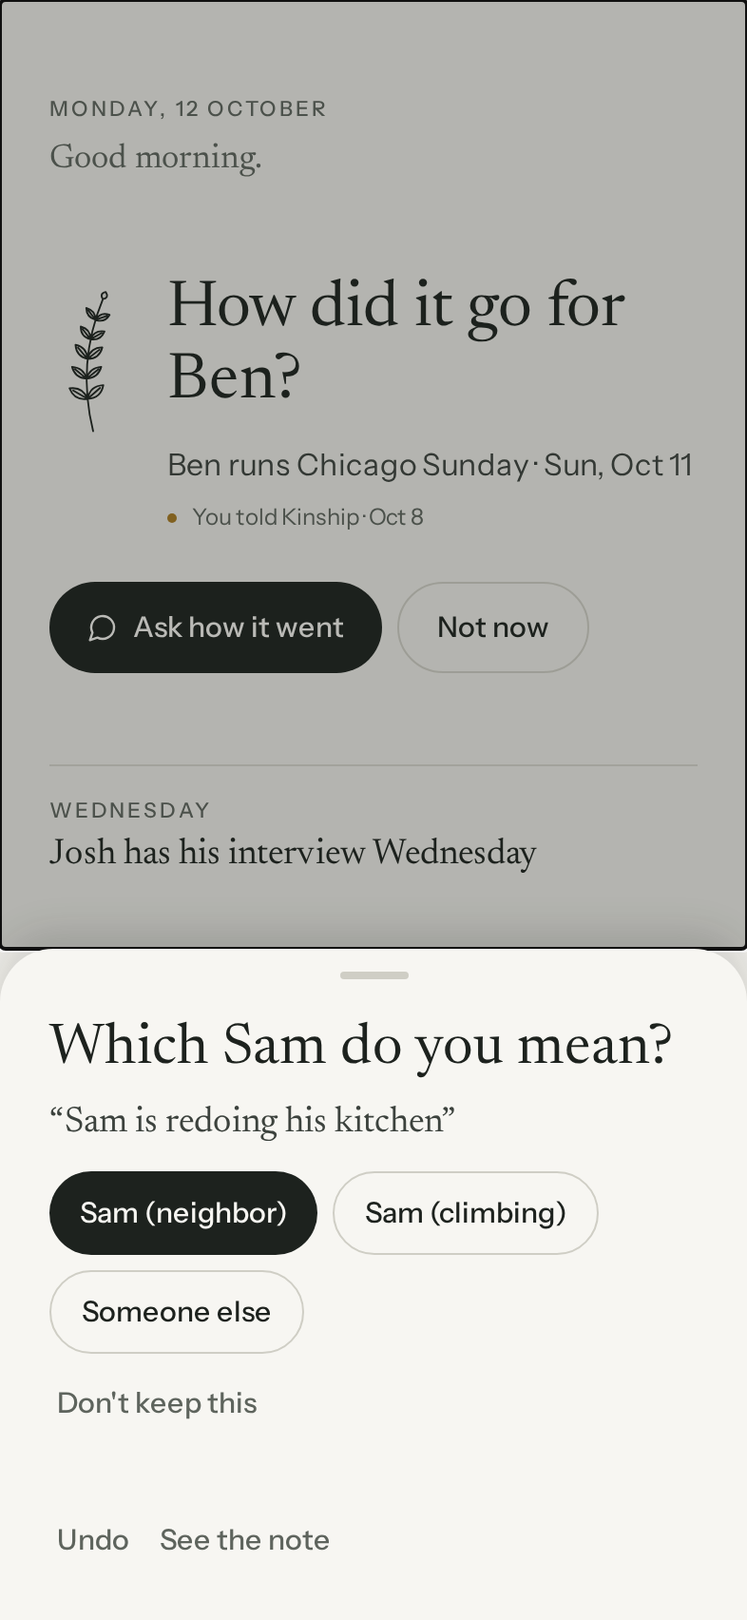
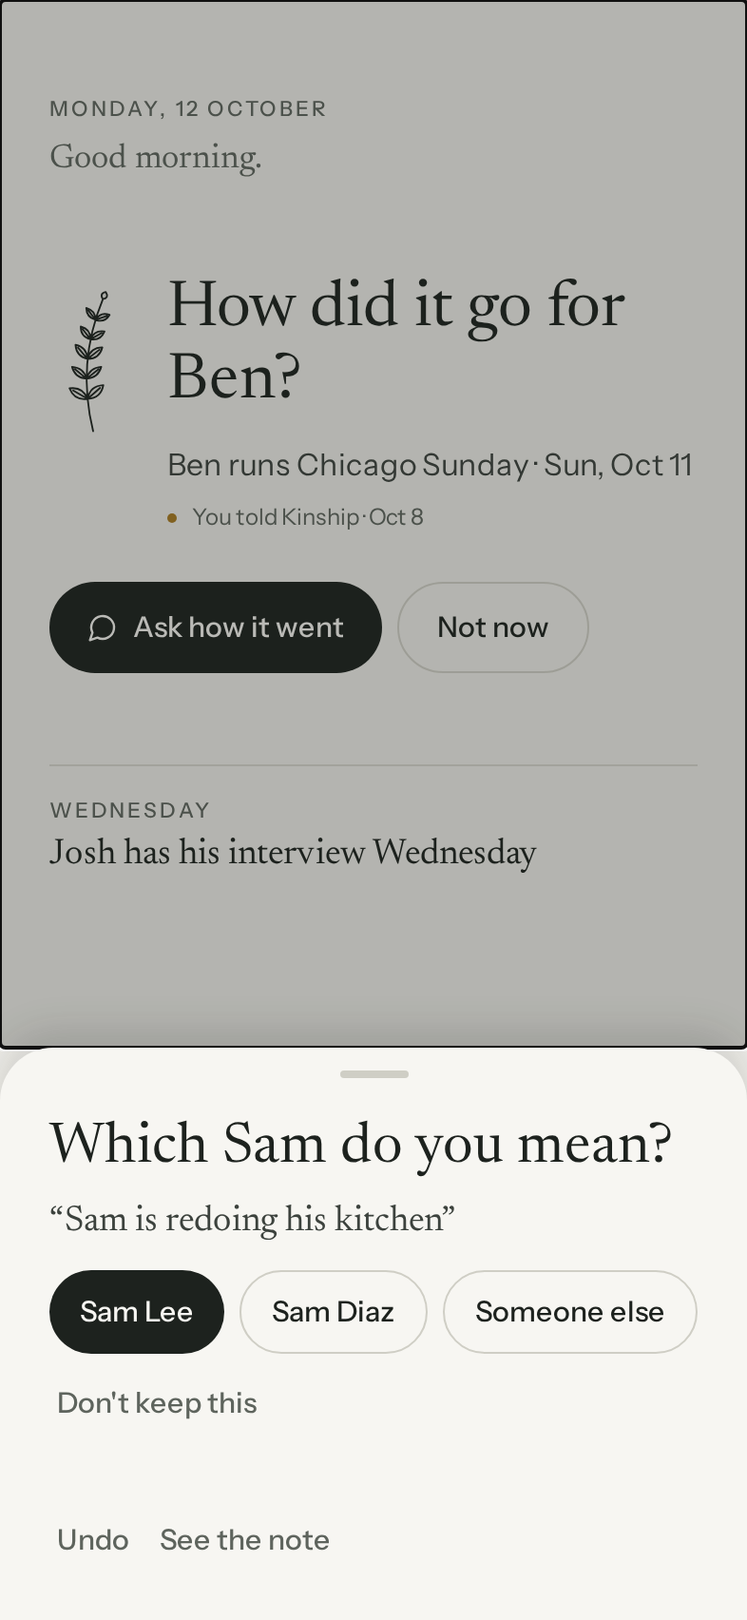
Activation pass: rules docs, Today eligibility, label audit, screenshots
- docs/product/activation-pass.md: what changed, the dense Matt Tell, the
  'running buddy' audit (lab fixture only; nothing infers labels), tests,
  founder questions, native-pass items
- docs/product/relationship-page-rules.md: sections, density, item states,
  the Anna and knee progressions
- docs/product/today-eligibility.md: the deterministic rules for the
  moment, quiet lines, return check and page-only context
- Portrait keeps a note's own order for its lines; welcome lab shows the
  example link; coverage and final review updated

Claude-Session: https://claude.ai/code/session_011gXT59FKC513Zd4573Jb2j

Changed region(s): [[0.0, 0.5599, 1.0, 0.8398], [0.7023, 0.6843, 0.8855, 0.7154]]

diff --git a/src/features/person/portraitModel.ts b/src/features/person/portraitModel.ts
@@ -143,8 +143,13 @@ export function buildPortrait(input: {
         if (active && daysFrom(today, told) >= -R.latelyDays) lately.push({ x, at: told });
     }
   }
-  const newest = (a: { at: string; x: PortraitItem }, b: { at: string; x: PortraitItem }) =>
-    b.at.localeCompare(a.at) || String(b.x.item.created_at ?? "").localeCompare(String(a.x.item.created_at ?? ""));
+  // Newest first; lines from the same note keep the note's own order.
+  const newest = (a: { at: string; x: PortraitItem }, b: { at: string; x: PortraitItem }) => {
+    const ca = String(a.x.item.created_at ?? "");
+    const cb = String(b.x.item.created_at ?? "");
+    if (a.x.noteId && a.x.noteId === b.x.noteId) return ca.localeCompare(cb);
+    return b.at.localeCompare(a.at) || cb.localeCompare(ca);
+  };
   const soonest = (a: { at: string; x: PortraitItem }, b: { at: string; x: PortraitItem }) =>
     a.at.localeCompare(b.at) || String(a.x.item.created_at ?? "").localeCompare(String(b.x.item.created_at ?? ""));
 

diff --git a/src/features/person/__tests__/memoryProofs.test.ts b/src/features/person/__tests__/memoryProofs.test.ts
@@ -114,7 +114,8 @@ describe("a dense note: Matt", () => {
 
     // Matt's page: what's going on, what's coming, what you said you'd do.
     const portrait = await portraitFor(w.repos, (await w.repos.people.get(matt.id))!, now(w));
-    expect(portrait.lately.map((l) => l.statement).sort()).toEqual(["Matt is excited but nervous about managing people", "Matt was promoted"]);
+    // In the note's own order.
+    expect(portrait.lately.map((l) => l.statement)).toEqual(["Matt was promoted", "Matt is excited but nervous about managing people"]);
     expect(portrait.comingUp.map((l) => l.statement)).toEqual(["Matt and Jess are thinking about moving to Marin next summer"]);
     expect(portrait.youSaid.map((l) => l.statement)).toEqual(["Introduce Matt to Alex"]);
     expect(portrait.between).toEqual([]);

diff --git a/src/dev/v2Lab.tsx b/src/dev/v2Lab.tsx
@@ -331,7 +331,7 @@ export function V2Lab({ state }: { state: string }) {
           methods={{ apple: state !== "welcome-no-apple", google: true, email: true }}
           busy={state === "welcome-busy"}
           error={state === "welcome-error" ? "That didn't work. Please try again." : null}
-          onApple={noop} onGoogle={noop} onEmail={noop} onTerms={noop} onPrivacy={noop}
+          onApple={noop} onGoogle={noop} onEmail={noop} onTerms={noop} onPrivacy={noop} onHowItWorks={noop}
         />
       );
     case "welcome-email":

diff --git a/docs/product/activation-pass.md b/docs/product/activation-pass.md
@@ -1,0 +1,96 @@
+# Activation clarity and core-loop demonstration pass
+
+**Readiness: READY FOR FOUNDER NATIVE PASS.** Unchanged, and not wife-dogfood ready. Nothing has run on an iPhone yet; all screenshots are web renders of the real components.
+
+## 1. What changed and why
+
+| Change | Why | Where |
+|---|---|---|
+| **"See how it works"**, a quiet link on the welcome. One continuous example in 4 steps: *you tell* "Ben runs Chicago Sunday and hopes to break four hours." → *Kinship keeps it* (understood words, the goal, "You told Kinship · Thursday") → *it brings it back* (Monday: "How did it go for Ben?" · Ask how it went) → *you reach out; afterwards one question* ("Did you reach Ben?" → "Anything worth remembering about Ben?") | A new user can see the whole loop before setup without being told about technology. Optional, about 15–20 s and 4 taps. Every step is labelled "An example"; nothing is saved; no AI words | `src/features/welcome/HowItWorks.tsx` |
+| The example's Today step says exactly what Today says the day after a race | Showing "Ben runs Chicago today." would show a moment the product doesn't make (a race's policy is follow-up only). A test pins the example to the real Today model | `howItWorks.test.tsx` |
+| **First-Tell examples** under the input: "Ben is running Chicago Sunday and wants to break four hours." · "Maya starts her new job next month." · "I told Chris I'd send him that restaurant." | Shows the range (what's happening, what's coming and hoped for, what you said you'd do) by example, not category. The medical example the board used is gone from first use | `SetupViews.tsx` |
+| **Telling from a person's page** now asks "What's going on with Sarah?" | Guides without putting an invented fact on a real person's page (an example line like "Sarah starts a new job" could be read as a memory) | `TellSheet.tsx` |
+| **Relationship-page rules** made explicit and testable | Proves the portrait stays a portrait at 25+ memories; everything else stays in What Kinship knows | `portraitModel.ts`, `relationship-page-rules.md` |
+| **Proofs through the real path** | Dense Tell, resolving and superseding information, and density, each run through the gateway's input builder and `planExtraction`, its write rules, sync, review, portrait, What Kinship knows and Source. The model's reply is written by hand (there is no model in tests), in the model's exact output shape | `memoryProofs.test.ts`, `src/dev/fixtures/denseTell.ts` |
+| Lab shows no relationship labels | A real account can't have one (§5) | `src/dev/v2Lab.tsx` |
+
+Mandatory setup is unchanged. The example adds nothing to it, and the examples are three quiet lines on an existing screen.
+
+**Screenshots:**
+- the example: [1](screens/how-1.png) · [2](screens/how-2.png) · [3](screens/how-3.png) · [4](screens/how-4.png) · [night 3](screens/night-how-3.png);
+- the welcome with the link: [light](screens/welcome.png) · [SE](screens/welcome-se.png);
+- the first Tell: [with birthdays](screens/setup-worth.png) · [typed](screens/setup-worth-typed.png) · [no birthdays](screens/setup-tell.png) · [SE](screens/setup-worth-se.png).
+
+## 2. Dense Tell: Matt
+
+> "Matt just got promoted. He's excited but nervous about managing people. He and Jess are thinking about moving to Marin next summer, and I told him I'd introduce him to Alex."
+
+| Step | What the real code did | Screenshot |
+|---|---|---|
+| Tell | Typed into the Tell field on Today | [tell](screens/matt-tell.png) |
+| Understanding | 4 items, nothing dropped, **no question**. The note's tier is *look over*: "Matt was promoted" saves automatically; the other three are saved and shown for a look because they refer to Matt as "He/him". The promise was lowered to *tentative* ("I told him I'd…" reads as reported speech). "next summer" was kept as a season, not a date. **Jess and Alex were not made into people** | [review](screens/matt-review.png) |
+| Memories | fact *Matt was promoted*; fact *Matt is excited but nervous about managing people*; plan *Matt and Jess are thinking about moving to Marin next summer* (tentative, summer); promise *Introduce Matt to Alex* | — |
+| Matt's page | **Lately:** Matt was promoted · Matt is excited but nervous about managing people. **Coming up:** Matt and Jess are thinking about moving to Marin next summer. **You said you'd:** Introduce Matt to Alex. Each line: "You told Kinship · Oct 5" | [page](screens/matt-person.png) · [night](screens/night-matt-person.png) |
+| What Kinship knows | The same four, each with its source | [knows](screens/matt-knows.png) |
+| Source | The note, with the four understood passages marked | [source](screens/matt-source.png) |
+
+The lines are the kept statements, one per memory, not a written summary. That's the grounding rule in V1: no generated prose on the page.
+
+## 3. Information that changes, and density
+
+See `relationship-page-rules.md` for the full tables: the Anna and knee progressions, what stays, what leaves Lately, what stays in What Kinship knows, what becomes history, and how provenance is kept. It also covers the new, light and rich (24 memories) pages.
+
+**Screenshots:**
+- density: [new](screens/person-new.png) · [light](screens/person-light.png) · [rich](screens/person-rich.png) · [rich: What Kinship knows](screens/person-rich-knows.png);
+- Anna: [before](screens/anna-before.png) · [after](screens/anna-after.png) · [What Kinship knows](screens/anna-knows.png);
+- Ben's knee: [before](screens/knee-before.png) · [after](screens/knee-after.png) · [What Kinship knows](screens/knee-knows.png).
+
+## 4. Where "running buddy" came from
+
+- **Only the dev lab's fixture.** `src/dev/v2Lab.tsx` hard-coded `relationship_label: "running buddy"` for Ben (and "neighbor" and "climbing" for two Sams).
+- **In a real account it can never appear today.**
+  - `people.relationship_label` is written only by `PeopleRepo.add` and `update`, and no 2.0 screen passes a label.
+  - Extraction never writes it. The gateway only *reads* it as roster context, to tell people apart (`ai-gateway/index.ts`, `_shared/extraction/context.ts`).
+  - Contacts import doesn't set it.
+- **Kinship does not infer durable characterizations of relationships.** Nothing turns "we run together" into a label: such a sentence becomes a sourced *Between you* line, never a subtitle.
+- Two people with the same name are told apart by their full contact names ("Sam Lee", "Sam Diaz").
+- The lab now shows no labels.
+- The relationship page and What Kinship knows display the label without a provenance line. Harmless while nothing can set it, but if a label is ever added (question 6) it should say "You added this".
+
+## 5. Today eligibility
+
+Documented in `today-eligibility.md`: primary moment, quiet lines, return check and page-only context, covering birthdays, dated events, promises, plans and return checks. Nothing changed.
+
+## 6. Tests added this pass
+
+| Test | Proves |
+|---|---|
+| `src/features/person/__tests__/memoryProofs.test.ts` (4) | Dense Tell end to end; resolve (Anna); supersede with history and sources kept (knee); new, light and rich pages within the rules. It also writes and checks `src/dev/fixtures/generated/proofs.json` so the lab can't drift from the code |
+| `src/features/welcome/__tests__/howItWorks.test.tsx` (4) | Every step labelled as an example; one continuous example; it never reads the store; its Today step equals the real Today model's output; no AI words; first-Tell examples aren't health events and use no category words |
+| Test gateway (`src/test-utils/fakeGateway.ts`) | Can now run the gateway's real input builder and pipeline on a supplied model reply, and applies the gateway SQL's merge, supersede and resolves rules |
+
+Totals: Jest 314 / 314 · `tsc` clean · ESLint 0 errors, 130 warnings (unchanged).
+
+## 7. Questions for you (I haven't chosen these)
+
+1. **A day-of moment for events.** Today, a race only gets the day-after follow-up ("How did it go for Ben?"); there is no "Ben runs Chicago today." Should events with an exact day also get a day-of moment (e.g. "Ben runs Chicago today." · Message Ben)? It's a reasons-engine rule change, not a UI change.
+2. **Relationship-page density numbers.** Lately covers 120 days; Coming up covers 120 days; birthdays 30 days; at most 3 lines a section. Right defaults, or different?
+3. **Where superseded history lives.** Ben's old knee note is kept but shown nowhere. Should "Your story together" (coverage #13) be its home, and before alpha?
+4. **Kind words in the review.** The look-over sheet's tokens say "Something true · A plan · Your promise" (tap to change). It's correctable and in plain words, but it is a visible classification. Keep, or hide unless tapped?
+5. **"I told him I'd…" is treated as tentative** and asks for a look. Should the user's own reported promise count as stated? This is an extraction rule (evals first), not a UI change.
+6. **Relationship labels.** Nothing can set one, so the subtitle under a name is always empty. Do you want a way for her to add one ("college roommate"), shown as "You added this"? Or none at all in V1?
+7. **Dense notes usually get a look-over sheet** because pronouns ("he") lower the tier. That matches the current policy (don't relax confirmation in early dogfood). Keep it for her first weeks?
+
+## 8. For the founder native pass (add to the script in `wife-dogfood-final-review.md` §13)
+
+Check on the phone, not from screenshots. Don't change typography from browser renders.
+
+- The smallest provenance labels ("You told Kinship · Oct 5", "From Contacts"): readable at default and larger text?
+- The Contacts screen's helper copy and lock line: clear, not alarming?
+- Settings/privacy copy (understanding, Contacts lines).
+- Today's quiet lines (labels like "TOMORROW" over "Maya's birthday").
+- The keyboard on the first Tell and the Tell field: never covers the field or "Keep it"?
+- Bottom-sheet heights (review, follow-up, add someone): never under the home indicator, never taller than needed?
+- Small screen (SE / mini): the example, the picker footer, the first Tell with its examples.
+- Dynamic Type and VoiceOver: the example's steps read in order; the examples read as one group.
+- **"See how it works":** opens from the welcome, 4 taps, closes back to the welcome, never appears again unless tapped.

diff --git a/docs/product/relationship-page-rules.md b/docs/product/relationship-page-rules.md
@@ -1,0 +1,75 @@
+# The relationship page: what shows where, at any density
+
+**Code:** `src/features/person/portraitModel.ts` (`buildPortrait`, `PORTRAIT_RULES`). **Proofs:** `src/features/person/__tests__/memoryProofs.test.ts`, run through the real gateway pipeline, write rules, sync and views. Screenshots are in `screens/` and listed at the end.
+
+The page is a portrait, not a record. It shows a few true, sourced lines about what's going on now. **Everything Kinship keeps stays in "What Kinship knows about …", one tap away.** Nothing is ever dropped to make the page fit; it is only not *featured*.
+
+## Sections
+
+| Section | What can appear | Order | At most |
+|---|---|---|---|
+| **Lately** | Active facts and open threads told in the last **120 days**; dated events that happened in the last **30 days**; undated events told in the last 120 days | Newest first; lines from the same note keep the note's order | 3 |
+| **Coming up** | Their birthday within **30 days** (from its source: Contacts, a note, or their own edit); dated events and milestones in the next **120 days**; active plans (undated or seasonal) | Soonest first; undated plans last | 3 |
+| **You said you'd** | Open promises (yours) | Newest first | 3 |
+| **Between you** | Shared context, traditions, shared moments (active or resolved) | Newest first | 3 |
+
+- A section appears only when it has a line.
+- When something Kinship knows isn't on the page, the page shows **"What Kinship knows about Priya →"**. It never shows a count.
+- Order is by **time only**. Nothing is ranked by importance, sentiment or inferred closeness.
+- A page with nothing told yet says: "What you tell Kinship about Sarah will be here: what's going on with them, what's coming up, what you said you'd do." It also shows "Tell Kinship about Sarah". A Contacts birthday doesn't count as something told.
+
+These numbers are product rules, not technical limits. They are founder questions (see `activation-pass.md`).
+
+## Item states and where they go
+
+| State | On the page | In What Kinship knows | In the database |
+|---|---|---|---|
+| `active` | Yes, by the section rules | Yes | Yes |
+| `resolved` (an open thread something later answered) | Only in Between you (context kinds); a resolved thread leaves Lately | Yes, as written | Yes |
+| `superseded` (a newer statement replaced it) | No | No | Kept, with `valid_to` set on facts, its sources, and `memory_item_history`. Retracting the newer item restores it (`v2_restore_superseded`). |
+| `retracted` ("Not this") / `expired` | No | No | Tombstoned; purged after 30 days |
+
+## Proven progressions
+
+### Anna: "Anna is interviewing at Stripe." → three weeks later → "Anna got the Stripe job!"
+
+| | After note 1 | After note 2 |
+|---|---|---|
+| Model reply (written by hand, in the model's exact shape) | thread "Anna is interviewing at Stripe" | fact "Anna got the job at Stripe", `existing: resolves` → the thread |
+| Pipeline / write rule | thread saved automatically | new fact saved; the thread becomes `resolved` (gateway SQL `resolves`) |
+| **Lately** | Anna is interviewing at Stripe | **Anna got the job at Stripe** (the open question has left) |
+| **What Kinship knows** | the thread | the job, **and** "Anna is interviewing at Stripe" |
+| **History** | — | The thread is kept, resolved, with its source |
+| **Provenance** | Note 1's Source shows the thread | Note 1 still shows the thread; note 2 shows the job |
+
+### Ben's knee: "Ben's knee has been bothering him." → a month later → "Ben's knee is finally better."
+
+| | After note 1 | After note 2 |
+|---|---|---|
+| Pipeline | health fact; **held** until she taps "Remember" (sensitive) | health fact `existing: supersede`; held until "Remember" |
+| Write rule | saved after "Remember" | new fact saved with `supersedes_id`; the old fact becomes `superseded`, `valid_to` set |
+| **Lately** | Ben's knee has been bothering him | **Ben's knee is better** |
+| **What Kinship knows** | the old fact | **only** "Ben's knee is better" |
+| **History** | — | The old fact is kept in the database with its own source (proven), not shown anywhere in V1 |
+| **Provenance** | Note 1's Source lists the old fact | Note 1's Source no longer lists it, because superseded items are left out. The note itself is kept. |
+
+**Gap to decide:** superseded history is kept but has no visible home. Its natural home is "Your story together", which isn't built yet (coverage #13).
+
+## Density, proven
+
+| Person | Notes | Page |
+|---|---|---|
+| **New** (Sam) | none | Name, sprig, the invitation to tell; no sections |
+| **Lightly known** (Lena) | 2 | Lately: "Lena moved to Oakland"; You said you'd: "Help Lena hang shelves"; no "What Kinship knows" link (nothing hidden) |
+| **Richly known** (Priya) | 24 notes over ten months, 24 kept items | 3 + 3 + 3 + 3 lines. Old preferences ("Priya hates cilantro", the Moth podcast) are not in Lately because they were told more than 120 days ago; they're in What Kinship knows (24 lines). Coming up is soonest first. |
+
+In the rich case the real pipeline also did these things, which is correct behaviour:
+- It held "Priya's sister Ana moved to Lisbon" and "Priya's mom is visiting from Pune next week" for a subject check (Priya, or her relative?).
+- It raised "Priya's dog Miso had a good vet checkup" to *health*. That's a false positive (it's the dog), but it fails safe: it asks before keeping.
+- It dropped two of my first-draft fixture lines whose wording wasn't grounded in the note. "Go to…" was dropped as an invented name when the note said "come". A tradition whose anchor wasn't the note's words was dropped as no evidence.
+
+**Known rough edge seen in the rich page:** "Priya's pottery show is on October 24 · Sun, Oct 24" repeats the date. The de-duplication in `withWhen` only matches exact text. Small; to fix after the native pass.
+
+## Screenshots
+
+[new](screens/person-new.png) · [light](screens/person-light.png) · [rich](screens/person-rich.png) · [rich: What Kinship knows](screens/person-rich-knows.png) · [Anna before](screens/anna-before.png) · [Anna after](screens/anna-after.png) · [Anna: What Kinship knows](screens/anna-knows.png) · [knee before](screens/knee-before.png) · [knee after](screens/knee-after.png) · [knee: What Kinship knows](screens/knee-knows.png)

diff --git a/docs/product/today-eligibility.md b/docs/product/today-eligibility.md
@@ -1,0 +1,75 @@
+# Today: what can appear, and why (current rules)
+
+These are the deterministic rules as built, with no strategy change. Sources:
+- `supabase/migrations/20261005090000_v2_reasons_v0.sql`: server candidates for events.
+- `src/features/today/todayModel.ts`: selection, birthdays, quiet lines, return check, first use.
+- `supabase/functions/_shared/extraction/pipeline.ts`: `FOLLOWUP_POLICY`, the follow-up policy per event type.
+
+No model decides anything here. Nothing scores a relationship, ranks people, or detects "neglect". Elapsed time alone never makes a reason.
+
+## Primary moment (at most one)
+
+A candidate becomes the moment only if its score is **≥ 55**. Score = base weight × timeliness × evidence × freshness.
+- Highest score wins; ties go to the lower id.
+- One primary per person per 7 days.
+- Nothing ≥ 55 means no moment.
+
+| Candidate | Comes from | When | Base | Copy (templates and the user's own words only) |
+|---|---|---|---|---|
+| **Event follow-up** | Event: active, about the person (not a relative), **exact day**, sensitivity none, person active, follow-up policy `after`/`both` | Day after it ends (race, interview, exam, birth, funeral…); 3–7 days after a move, job start or school start; up to 3 days after a trip | 90 | "How did it go for Ben?" · "Ben runs Chicago Sunday · Sun, Oct 11" · **Ask how it went** |
+| **Upcoming event** | Same, policy `before`/`both` | Day before; 2–3 days before a celebration or wedding | 85 | the event's statement · "Tomorrow · Sun, Oct 11" · **Message Ben** |
+| **Birthday** | `people.birthday` with a known source (Contacts, a note, the user's edit); person active | The day itself | 80 | "It's Maya's birthday." · From Contacts · **Message Maya** |
+
+**Follow-up policy by event type** (deterministic, never the model's call):
+- race, move, trip, birth, funeral, job_start, school_start → after only;
+- surgery, medical, exam, interview, wedding, celebration → both;
+- other → none.
+
+**So Ben's race produces no day-before or day-of moment, only the day-after "How did it go for Ben?"** The "See how it works" example shows exactly that.
+
+**Multipliers:**
+- **Timeliness:** 1.0 on the window's first day, then −0.15 a day, floor 0.6.
+- **Evidence (certainty):** stated 1.0 · planned 0.9 · tentative 0.7 · reported 0.6 · wished 0.5.
+- **Evidence (review):** confirmed, edited or user-written 1.0 · unreviewed 0.85.
+- **Freshness:** 0.5 once it was shown on an earlier day.
+
+**Never a moment:**
+- sensitive events (health, loss);
+- events about a relative ("Priya's mom is visiting");
+- coarse dates ("next week", "in the spring");
+- plans, promises, facts, threads;
+- paused or remembered people;
+- anything dismissed ("Not now"), acted on, or done.
+
+## Quiet lines (at most two, never the moment's person)
+
+| Line | Comes from | When |
+|---|---|---|
+| **A question** | A note waiting on the user's answer ("Which Sam?") | Until answered; takes the first line |
+| **Kept** | A note understood while she was elsewhere, not yet looked at | Instead of the question line |
+| **Coming up** | An exact-day event or plan, or a birthday with a source | 1–7 days ahead; "Tomorrow" / weekday label; one per person; soonest first |
+
+## The return check (replaces nothing; sits above the moment)
+
+- **"Did you reach Ben?" Yes · Not yet:** only 10 minutes to 12 hours after Kinship opened Messages, Phone, FaceTime or WhatsApp **from a Today moment** (its follow-up sheet). Message and Call on a relationship page open the channel but never ask afterwards.
+- **Yes** records a contact and offers "Anything worth remembering about Ben?", which opens Tell about him. **Not yet** lets the reason speak again. No answer records nothing, ever.
+- A birthday's "Yes" is recorded as a user-confirmed contact without a reason id (birthday moments are computed on the phone; see `wife-dogfood-final-review.md`).
+
+## Relationship-page only (never Today, today)
+
+These appear only on the relationship page and What Kinship knows:
+- facts and open threads;
+- promises, until promise reasons (RSN-06);
+- plans and seasonal plans (RSN-08);
+- shared context, traditions, moments;
+- sensitive events (hard-time rules, RSN-09);
+- events about relatives;
+- events with coarse dates;
+- "a year ago" (RSN-10, not built).
+
+## When Today has no moment
+
+| Account | Today says |
+|---|---|
+| No people, or nothing told yet (first use) | "This is where Kinship brings things back." + one next step |
+| In use, nothing reaches 55 | "Nothing needs you today." |

diff --git a/docs/product/approved-design-coverage.md b/docs/product/approved-design-coverage.md
@@ -68,9 +68,14 @@
 | Today birthday | Board quiet line "Saturday · Maya's birthday · Ideas →" | Quiet line without "Ideas →"; day-of birthday as the moment with "Message Maya" | **D9:** no generated ideas in V1 |
 | Return check after a birthday | — | "Yes" recorded as a user-confirmed contact (`source=manual`), not `return_check` | **Technical:** birthday moments are computed on the phone; the server requires a reason id for `return_check`. Server birthday reasons (RSN-05) remove this |
 
+| "See how it works" (welcome) | No board | An optional 4-step example of the loop, labelled "An example", from the welcome; nothing saved; its Today step is the real Today copy | **Founder request (activation pass, 5 Oct)**; built from the welcome/Today vocabulary |
+| First Tell | Board quote about Mom's hip surgery | Three plain examples (Ben's race, Maya's new job, a promise to Chris) under the field | **Founder request:** no health event as the first impression |
+| Relationship page density | Board shows one short line per section | At most 3 lines a section, by time only; Lately = last 120 days; the rest in What Kinship knows (`relationship-page-rules.md`) | **Founder request:** prove density; numbers await approval |
+
 ## 3. Items needing a founder decision
 
 1. **Your story together** (#13): defer to Phase 3 PER-07, before alpha? A new account has nothing to show.
 2. **"A year ago" quiet line** (#10): defer to RSN-10?
 3. **Settings export / delete account v2 UI** (#23): the 1.0 flows exist server-side; the 2.0 screens are not built. Defer to E17 before alpha?
 4. **Notification permission ask** (#31): no push exists yet, so there is nothing to ask for. Defer with E15?
+5. Activation pass questions 1–7 in `activation-pass.md` §7 (day-of event moment, density numbers, superseded history's home, kind words in the review, reported promises, relationship labels, look-over for dense notes).

diff --git a/docs/product/wife-dogfood-final-review.md b/docs/product/wife-dogfood-final-review.md
@@ -196,6 +196,9 @@ I can't see your phone; everything below is what to check, in order. Each step s
 16. **Larger Text** (Settings › Accessibility › Display & Text Size › Larger Text, a few notches up): nothing cut off on the welcome, picker or Today.
 17. **Airplane mode:** tell something; it should say it will understand it when you're online; turn airplane mode off; it gets understood.
 
+18. **See how it works** on the welcome (before signing in): 4 steps, each labelled "An example"; Got it returns to the welcome.
+19. The native-pass review items in `activation-pass.md` §8 (provenance size, Contacts helper copy, Settings copy, Today quiet lines, keyboard on Tell, sheet heights, small screen, Dynamic Type and VoiceOver).
+
 Send screenshots of anything that looks wrong, plus how long steps 4–9 took.
 
 **Then:** I fix what you find → you approve → only then do we prepare her build and, with your explicit yes for her user id only, enable her four flags.
